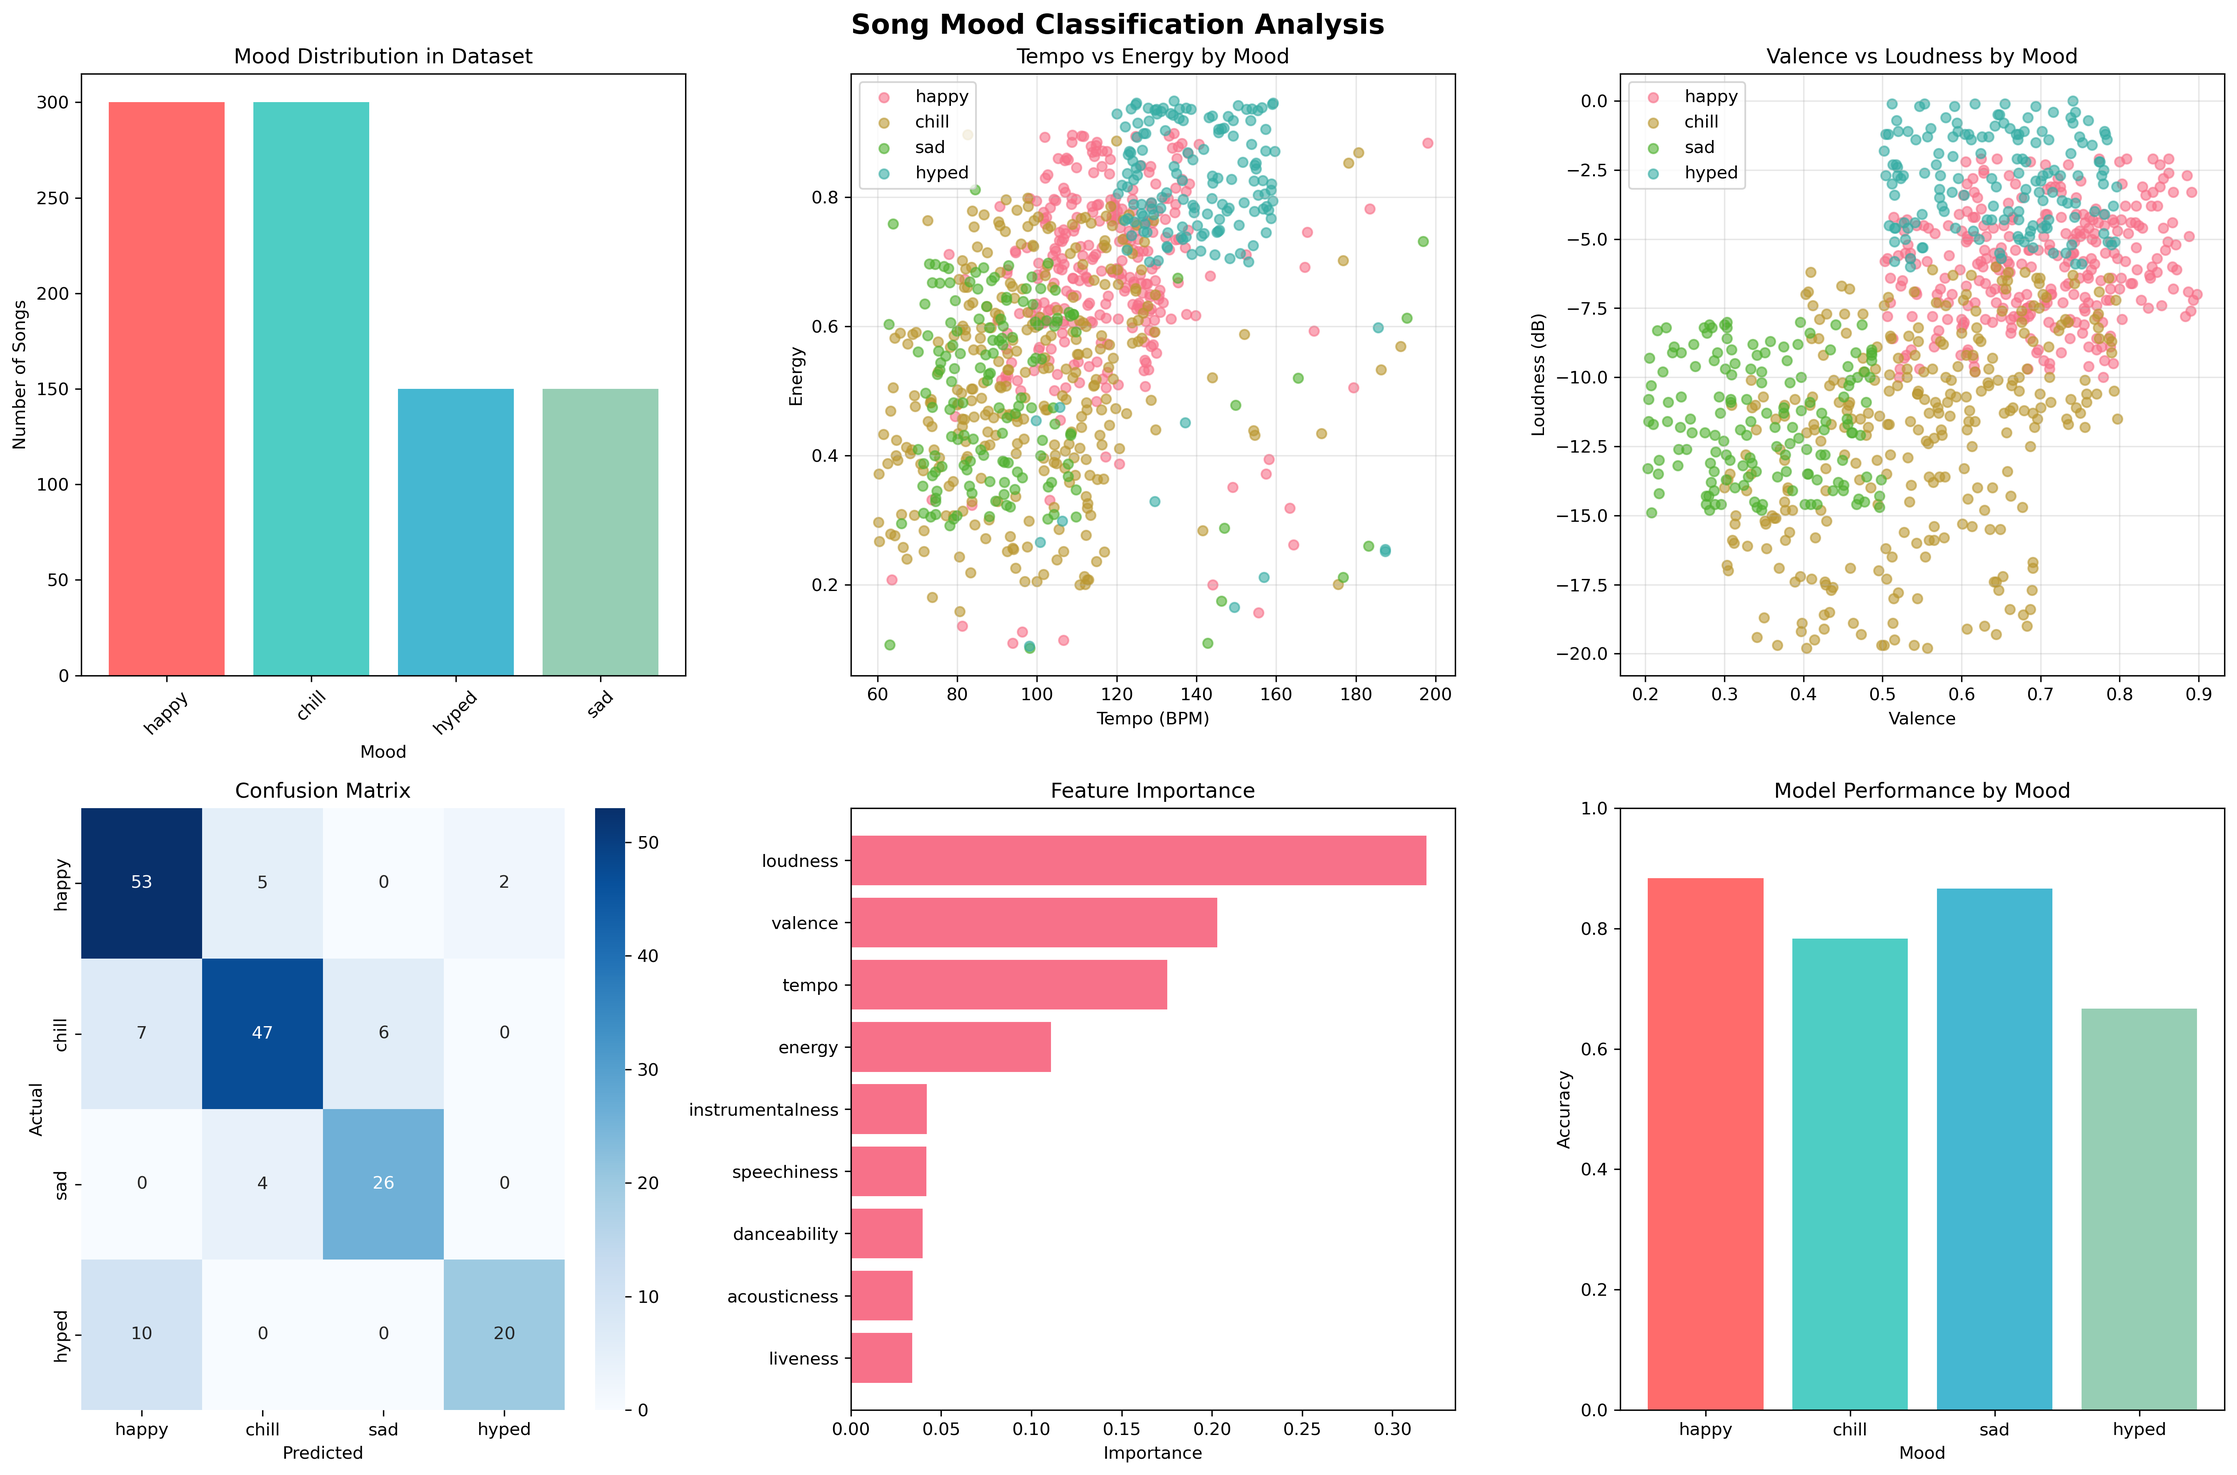
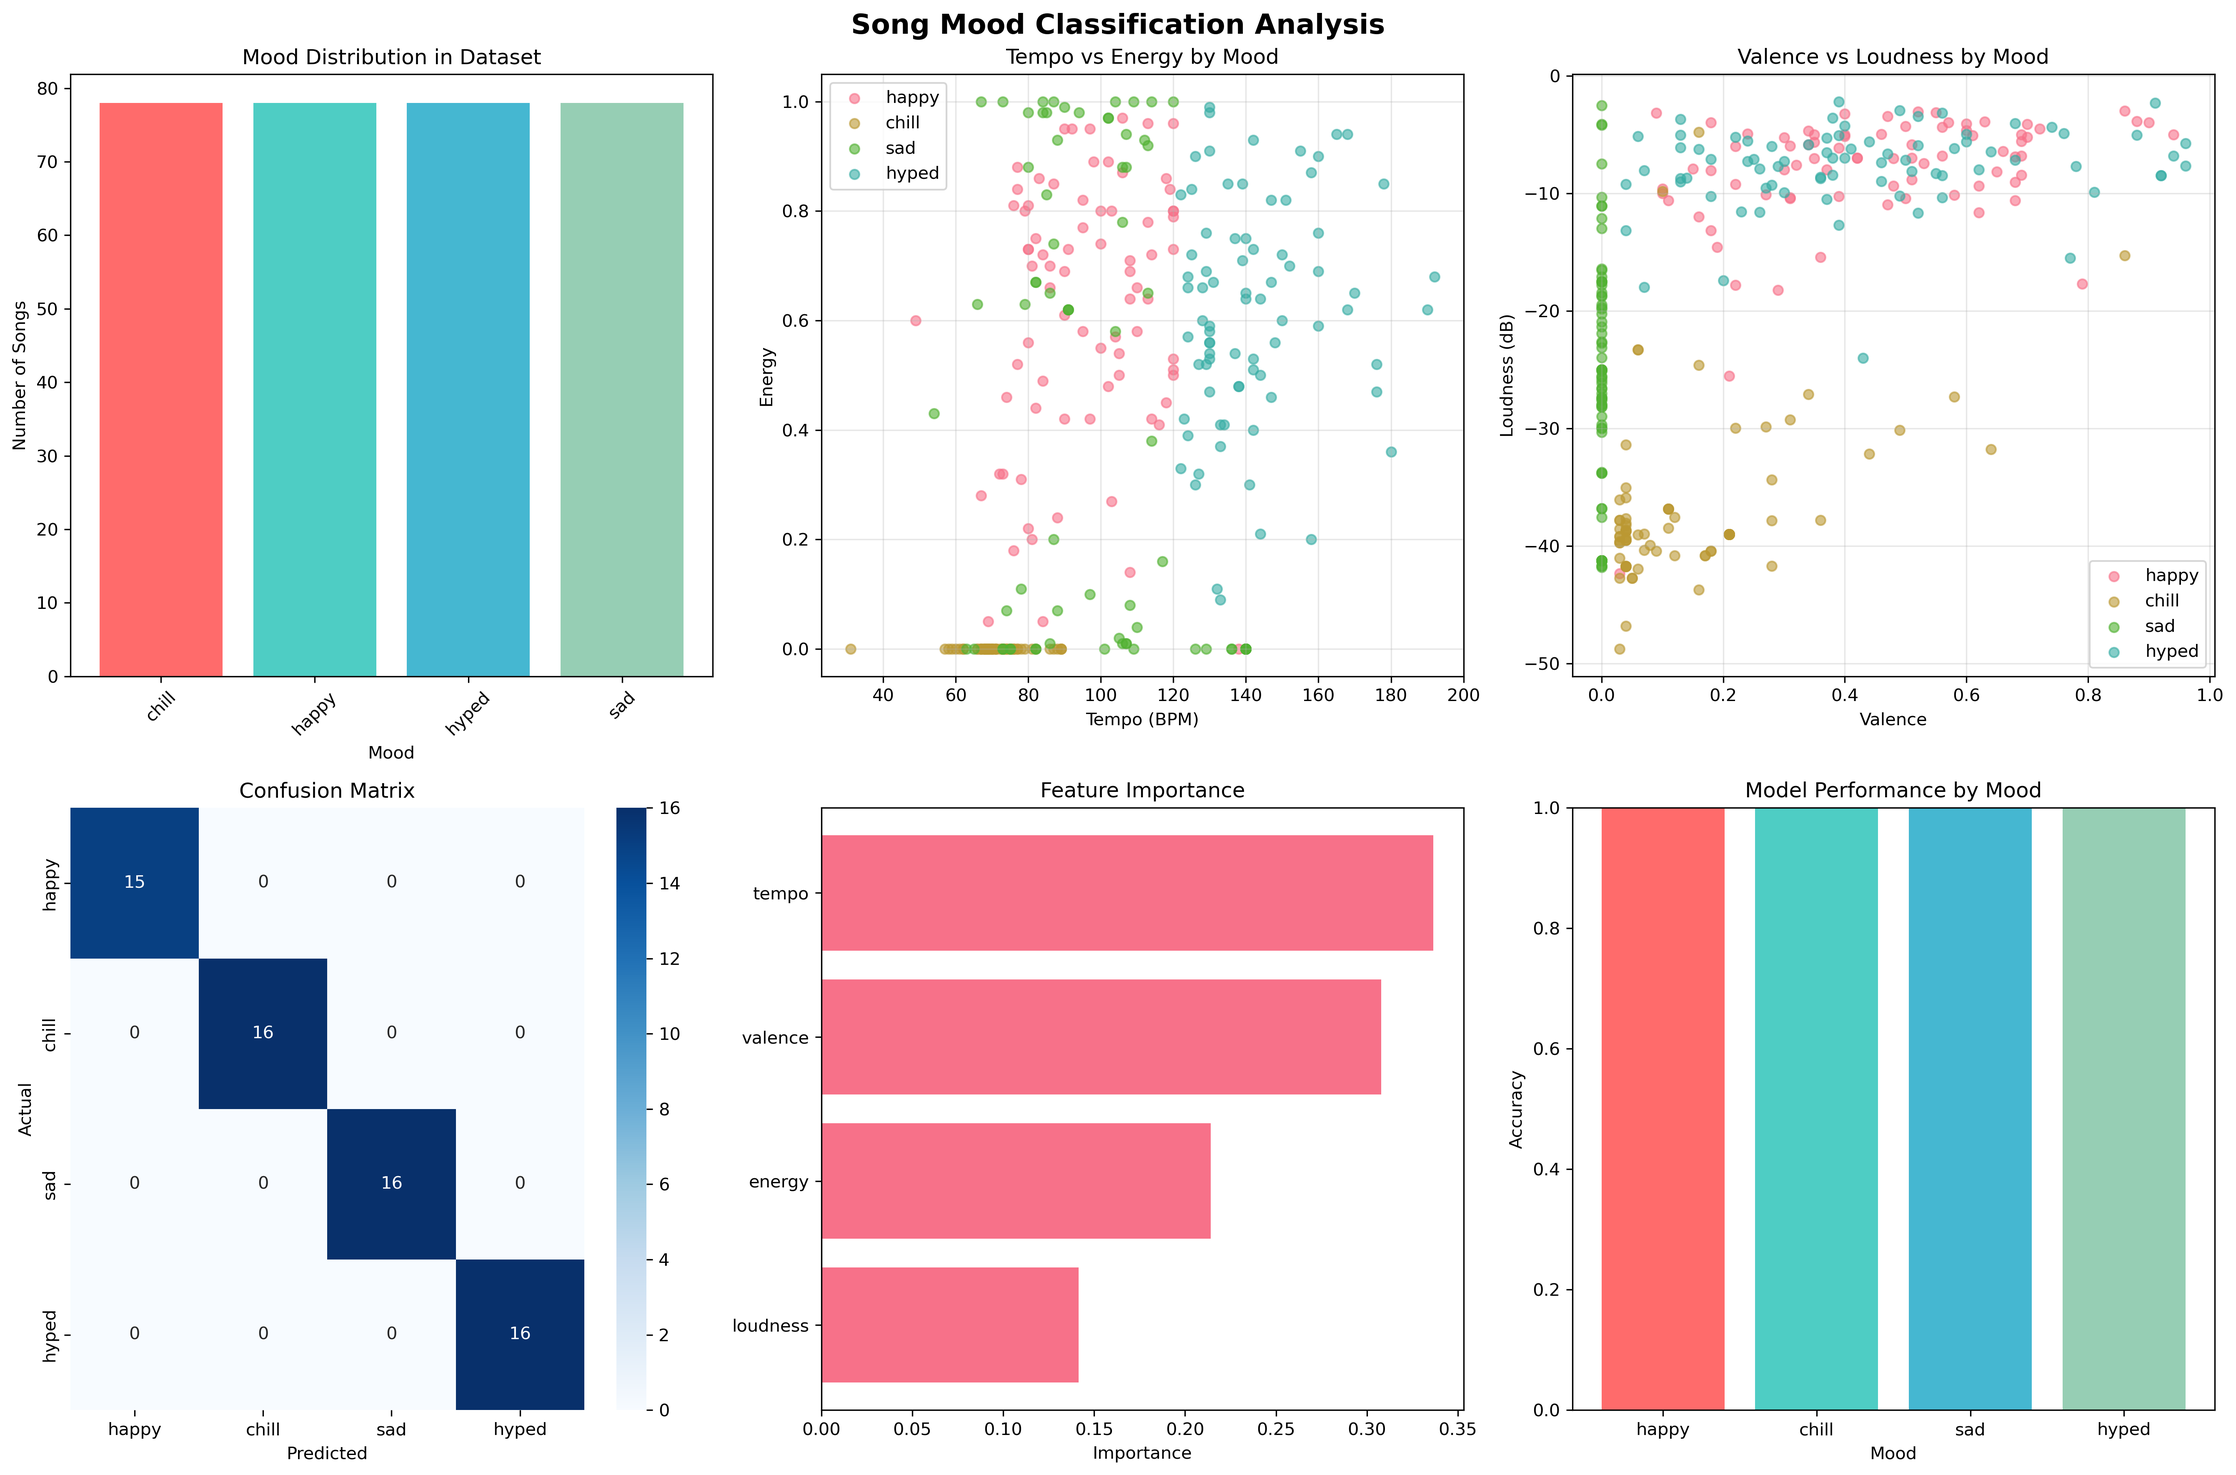
Preprocessing function
1. pre-processing method for kaggle data
2. feature normalization
3. added 5 optional features, but 4 mandatory features
4. cleaned up redundant code

diff --git a/milestone1_mood_classifier.py b/milestone1_mood_classifier.py
@@ -27,18 +27,37 @@ class MoodClassifier:
         print("Loading music dataset...")
         
         try:
-            # Try to load the real dataset
+            # Try to load preprocessed dataset
             df = pd.read_csv('music_dataset.csv')
-            print(f"Loaded {len(df)} songs from dataset")
+            print(f"Loaded {len(df)} songs from preprocessed dataset")
             print(f"Mood distribution:")
             print(df['mood'].value_counts())
-            print(f"Genre distribution:")
-            print(df['genre'].value_counts())
             return df
             
         except FileNotFoundError:
-            print("Dataset not found. Creating fallback dataset...")
-            return self.create_fallback_dataset()
+            try:
+                # Try loading the songs dataset
+                print("Preprocessed dataset not found. Loading songs.csv...")
+                df = pd.read_csv('songs.csv')
+                print(f"Loaded {len(df)} songs from songs.csv")
+                
+                # Preprocess (moods already labeled!)
+                df = self.preprocess_songs_dataset(df)
+                
+                # Save preprocessed dataset
+                df.to_csv('music_dataset.csv', index=False)
+                print(f"Preprocessed and saved {len(df)} songs to 'music_dataset.csv'")
+                print(f"Mood distribution:")
+                print(df['mood'].value_counts())
+                return df
+                
+            except FileNotFoundError:
+                print("songs.csv not found. Creating fallback dataset...")
+                return self.create_fallback_dataset()
+            except Exception as e:
+                print(f"Error loading songs.csv: {e}")
+                print("Creating fallback dataset...")
+                return self.create_fallback_dataset()
     
     def create_fallback_dataset(self):
         """Create fallback dataset if real data not available"""
@@ -94,13 +113,188 @@ class MoodClassifier:
         print(f"Created fallback dataset with {len(df)} songs")
         return df
     
+    def preprocess_songs_dataset(self, df):
+        """Preprocess songs.csv dataset (moods already labeled!)"""
+        print("Preprocessing songs.csv dataset...")
+        print(f"Original dataset size: {len(df)} songs")
+        
+        # Expected columns in songs.csv
+        # artist, track_name, text, length, mood, genre, tempo, loudness, energy, valence, release_year
+        
+        # Audio features that exist in this dataset
+        required_features = ['tempo', 'loudness', 'energy', 'valence']
+        
+        # Check for mood column
+        if 'mood' not in df.columns:
+            print("ERROR: 'mood' column not found! Using fallback dataset instead.")
+            return self.create_fallback_dataset()
+        
+        # Show original mood distribution
+        print(f"\nOriginal mood distribution:")
+        print(df['mood'].value_counts())
+        
+        # Filter to only include our 4 mood categories (case-insensitive)
+        df['mood'] = df['mood'].str.lower().str.strip()
+        df = df[df['mood'].isin(self.mood_labels)]
+        print(f"\nAfter filtering to 4 moods: {len(df)} songs")
+        
+        # Check for required features
+        missing_features = [f for f in required_features if f not in df.columns]
+        if missing_features:
+            print(f"ERROR: Missing required features: {missing_features}")
+            print("Using fallback dataset instead.")
+            return self.create_fallback_dataset()
+        
+        # Remove rows with missing values in required features
+        original_len = len(df)
+        df = df.dropna(subset=required_features + ['mood'])
+        if len(df) < original_len:
+            print(f"Removed {original_len - len(df)} rows with missing values")
+        
+        # FIX: Normalize features that might be on wrong scale
+        print("\n=== Checking feature scales ===")
+        print(f"Raw feature ranges BEFORE normalization:")
+        print(f"  Tempo: {df['tempo'].min():.1f} - {df['tempo'].max():.1f}")
+        print(f"  Loudness: {df['loudness'].min():.1f} - {df['loudness'].max():.1f}")
+        print(f"  Energy: {df['energy'].min():.1f} - {df['energy'].max():.1f}")
+        print(f"  Valence: {df['valence'].min():.1f} - {df['valence'].max():.1f}")
+        
+        # Convert to numeric (in case they're strings)
+        df['energy'] = pd.to_numeric(df['energy'], errors='coerce')
+        df['valence'] = pd.to_numeric(df['valence'], errors='coerce')
+        
+        # Check for all-zero energy (data quality issue)
+        if df['energy'].max() == 0 and df['energy'].min() == 0:
+            print("ERROR: All energy values are 0! This indicates bad data.")
+            print("This will cause perfect classification scores (overfitting).")
+            print("Please check your source CSV file for correct energy values.")
+        
+        # Normalize if needed
+        if df['energy'].max() > 1.5:
+            print(f"Normalizing energy from 0-100 to 0-1 scale...")
+            df['energy'] = df['energy'] / 100.0
+        
+        if df['valence'].max() > 1.5:
+            print(f"Normalizing valence from 0-100 to 0-1 scale...")
+            df['valence'] = df['valence'] / 100.0
+        
+        print(f"\nFinal feature ranges AFTER normalization:")
+        print(f"  Tempo: {df['tempo'].min():.1f} - {df['tempo'].max():.1f}")
+        print(f"  Loudness: {df['loudness'].min():.1f} - {df['loudness'].max():.1f}")
+        print(f"  Energy: {df['energy'].min():.3f} - {df['energy'].max():.3f}")
+        print(f"  Valence: {df['valence'].min():.3f} - {df['valence'].max():.3f}")
+        
+        # Show mood distribution before balancing
+        print(f"\nMood distribution (before balancing):")
+        print(df['mood'].value_counts())
+        
+        # Balance dataset - take equal samples from each mood
+        min_samples = df['mood'].value_counts().min()
+        samples_per_mood = min(min_samples, 500)  # Cap at 500 per mood
+        
+        print(f"\nBalancing dataset: {samples_per_mood} songs per mood...")
+        df = df.groupby('mood', group_keys=False).apply(
+            lambda x: x.sample(n=samples_per_mood, random_state=42)
+        )
+        
+        # Keep relevant columns (including text for future use!)
+        keep_columns = ['track_name', 'artist'] + required_features + ['mood']
+        
+        # Add text column if available (for future lyrics analysis)
+        if 'text' in df.columns:
+            keep_columns.insert(2, 'text')  # Add after track_name and artist
+            print("✓ Keeping 'text' column for future lyrics analysis")
+        
+        # Keep genre if available (useful metadata)
+        if 'genre' in df.columns:
+            keep_columns.append('genre')
+        
+        available_columns = [col for col in keep_columns if col in df.columns]
+        df = df[available_columns]
+        
+        print(f"\nPreprocessing complete: {len(df)} songs ready for training")
+        print(f"Final mood distribution:")
+        print(df['mood'].value_counts())
+        
+        return df
+    
+    def preprocess_kaggle_data(self, df):
+        """Preprocess Kaggle dataset and assign moods"""
+        print("Preprocessing Kaggle data...")
+        
+        # Required features for our model
+        required_features = ['tempo', 'energy', 'valence', 'loudness', 'danceability', 
+                           'speechiness', 'acousticness', 'instrumentalness', 'liveness']
+        
+        # Check if all features exist
+        missing_features = [f for f in required_features if f not in df.columns]
+        if missing_features:
+            print(f"Warning: Missing features: {missing_features}")
+            for feature in missing_features:
+                df[feature] = 0.5  # Default value
+        
+        # Remove rows with missing values in key features
+        df = df.dropna(subset=required_features)
+        
+        # Assign moods based on audio features
+        print("Assigning moods based on audio features...")
+        df['mood'] = df.apply(self.assign_mood_from_features, axis=1)
+        
+        # Show mood distribution before balancing
+        print(f"Mood distribution (before balancing):")
+        print(df['mood'].value_counts())
+        
+        # Balance dataset - take equal samples from each mood
+        min_samples = df['mood'].value_counts().min()
+        samples_per_mood = min(min_samples, 400)  # Cap at 400 per mood
+        
+        print(f"Balancing dataset: {samples_per_mood} songs per mood...")
+        df = df.groupby('mood', group_keys=False).apply(
+            lambda x: x.sample(n=samples_per_mood, random_state=42)
+        )
+        
+        # Keep relevant columns
+        keep_columns = ['track_name', 'track_artist'] + required_features + ['mood']
+        available_columns = [col for col in keep_columns if col in df.columns]
+        df = df[available_columns]
+        
+        print(f"Preprocessing complete: {len(df)} songs ready for training")
+        return df
+    
+    def assign_mood_from_features(self, row):
+        """Assign mood category based on audio features"""
+        tempo = row['tempo']
+        energy = row['energy']
+        valence = row['valence']
+        
+        # Rule-based mood assignment
+        # Hyped: Fast tempo + high energy
+        if tempo > 120 and energy > 0.7:
+            return 'hyped'
+        
+        # Happy: High valence + moderate/high energy
+        elif valence > 0.6 and energy > 0.5:
+            return 'happy'
+        
+        # Sad: Low valence OR (low energy + low valence)
+        elif valence < 0.4 or (energy < 0.5 and valence < 0.5):
+            return 'sad'
+        
+        # Chill: Everything else (moderate values)
+        else:
+            return 'chill'
+    
     def train_models(self, df):
         """Train and compare multiple models"""
         print("\nTraining models on dataset...")
         
-        # Prepare features
-        features = ['tempo', 'energy', 'valence', 'loudness', 'danceability', 
-                   'speechiness', 'acousticness', 'instrumentalness', 'liveness']
+        # Prepare features - use only what's available in the dataset
+        all_possible_features = ['tempo', 'energy', 'valence', 'loudness', 'danceability', 
+                                'speechiness', 'acousticness', 'instrumentalness', 'liveness']
+        
+        # Detect which features are actually in the dataset
+        features = [f for f in all_possible_features if f in df.columns]
+        print(f"Using {len(features)} features: {features}")
         
         X = df[features]
         y = df['mood']
@@ -153,6 +347,7 @@ class MoodClassifier:
         
         # Select best model
         self.model = best_model
+        self.feature_names = features  # Store feature names for later use
         best_name = max(results.keys(), key=lambda k: results[k]['cv_score'])
         
         print(f"\nBest Model: {best_name}")
@@ -218,11 +413,9 @@ class MoodClassifier:
         
         # 5. Feature importance (if Random Forest)
         if hasattr(self.model, 'feature_importances_'):
-            feature_names = ['tempo', 'energy', 'valence', 'loudness', 'danceability', 
-                           'speechiness', 'acousticness', 'instrumentalness', 'liveness']
             importance = self.model.feature_importances_
             feature_importance = pd.DataFrame({
-                'feature': feature_names,
+                'feature': self.feature_names,
                 'importance': importance
             }).sort_values('importance', ascending=True)
             
@@ -256,15 +449,28 @@ class MoodClassifier:
         
         print("Visualizations saved as 'milestone1_analysis.png'")
     
-    def predict_new_song(self, tempo, energy, valence, loudness, danceability=0.5, 
-                        speechiness=0.1, acousticness=0.1, instrumentalness=0.1, liveness=0.1):
-        """Predict mood for a new song"""
+    def predict_new_song(self, tempo, energy, valence, loudness, danceability=None, 
+                        speechiness=None, acousticness=None, instrumentalness=None, liveness=None):
+        """Predict mood for a new song (only required features: tempo, energy, valence, loudness)"""
         if self.model is None:
             return "Model not trained yet!"
         
-        # Create feature vector
-        features = np.array([[tempo, energy, valence, loudness, danceability, 
-                             speechiness, acousticness, instrumentalness, liveness]])
+        # Create feature dictionary with all values
+        all_features = {
+            'tempo': tempo,
+            'energy': energy,
+            'valence': valence,
+            'loudness': loudness,
+            'danceability': danceability if danceability is not None else 0.5,
+            'speechiness': speechiness if speechiness is not None else 0.1,
+            'acousticness': acousticness if acousticness is not None else 0.1,
+            'instrumentalness': instrumentalness if instrumentalness is not None else 0.1,
+            'liveness': liveness if liveness is not None else 0.1
+        }
+        
+        # Create feature vector with only the features used in training
+        feature_values = [all_features[f] for f in self.feature_names]
+        features = np.array([feature_values])
         
         # Scale features
         features_scaled = self.scaler.transform(features)
@@ -281,7 +487,8 @@ class MoodClassifier:
         joblib.dump({
             'model': self.model,
             'scaler': self.scaler,
-            'mood_labels': self.mood_labels
+            'mood_labels': self.mood_labels,
+            'feature_names': self.feature_names
         }, filename)
         print(f"Model saved as '{filename}'")
     
@@ -292,6 +499,7 @@ class MoodClassifier:
         self.model = data['model']
         self.scaler = data['scaler']
         self.mood_labels = data['mood_labels']
+        self.feature_names = data.get('feature_names', ['tempo', 'energy', 'valence', 'loudness'])  # Default to 4 features
         print(f"Model loaded from '{filename}'")
 
 def main():
@@ -305,12 +513,8 @@ def main():
     # Initialize classifier
     classifier = MoodClassifier()
     
-    # Load dataset
+    # Load dataset (will automatically preprocess and save if needed)
     df = classifier.load_music_dataset()
-    
-    # Save dataset
-    df.to_csv('music_dataset.csv', index=False)
-    print("Dataset saved as 'music_dataset.csv'")
     
     # Train models
     results, X_test, y_test, y_pred = classifier.train_models(df)
